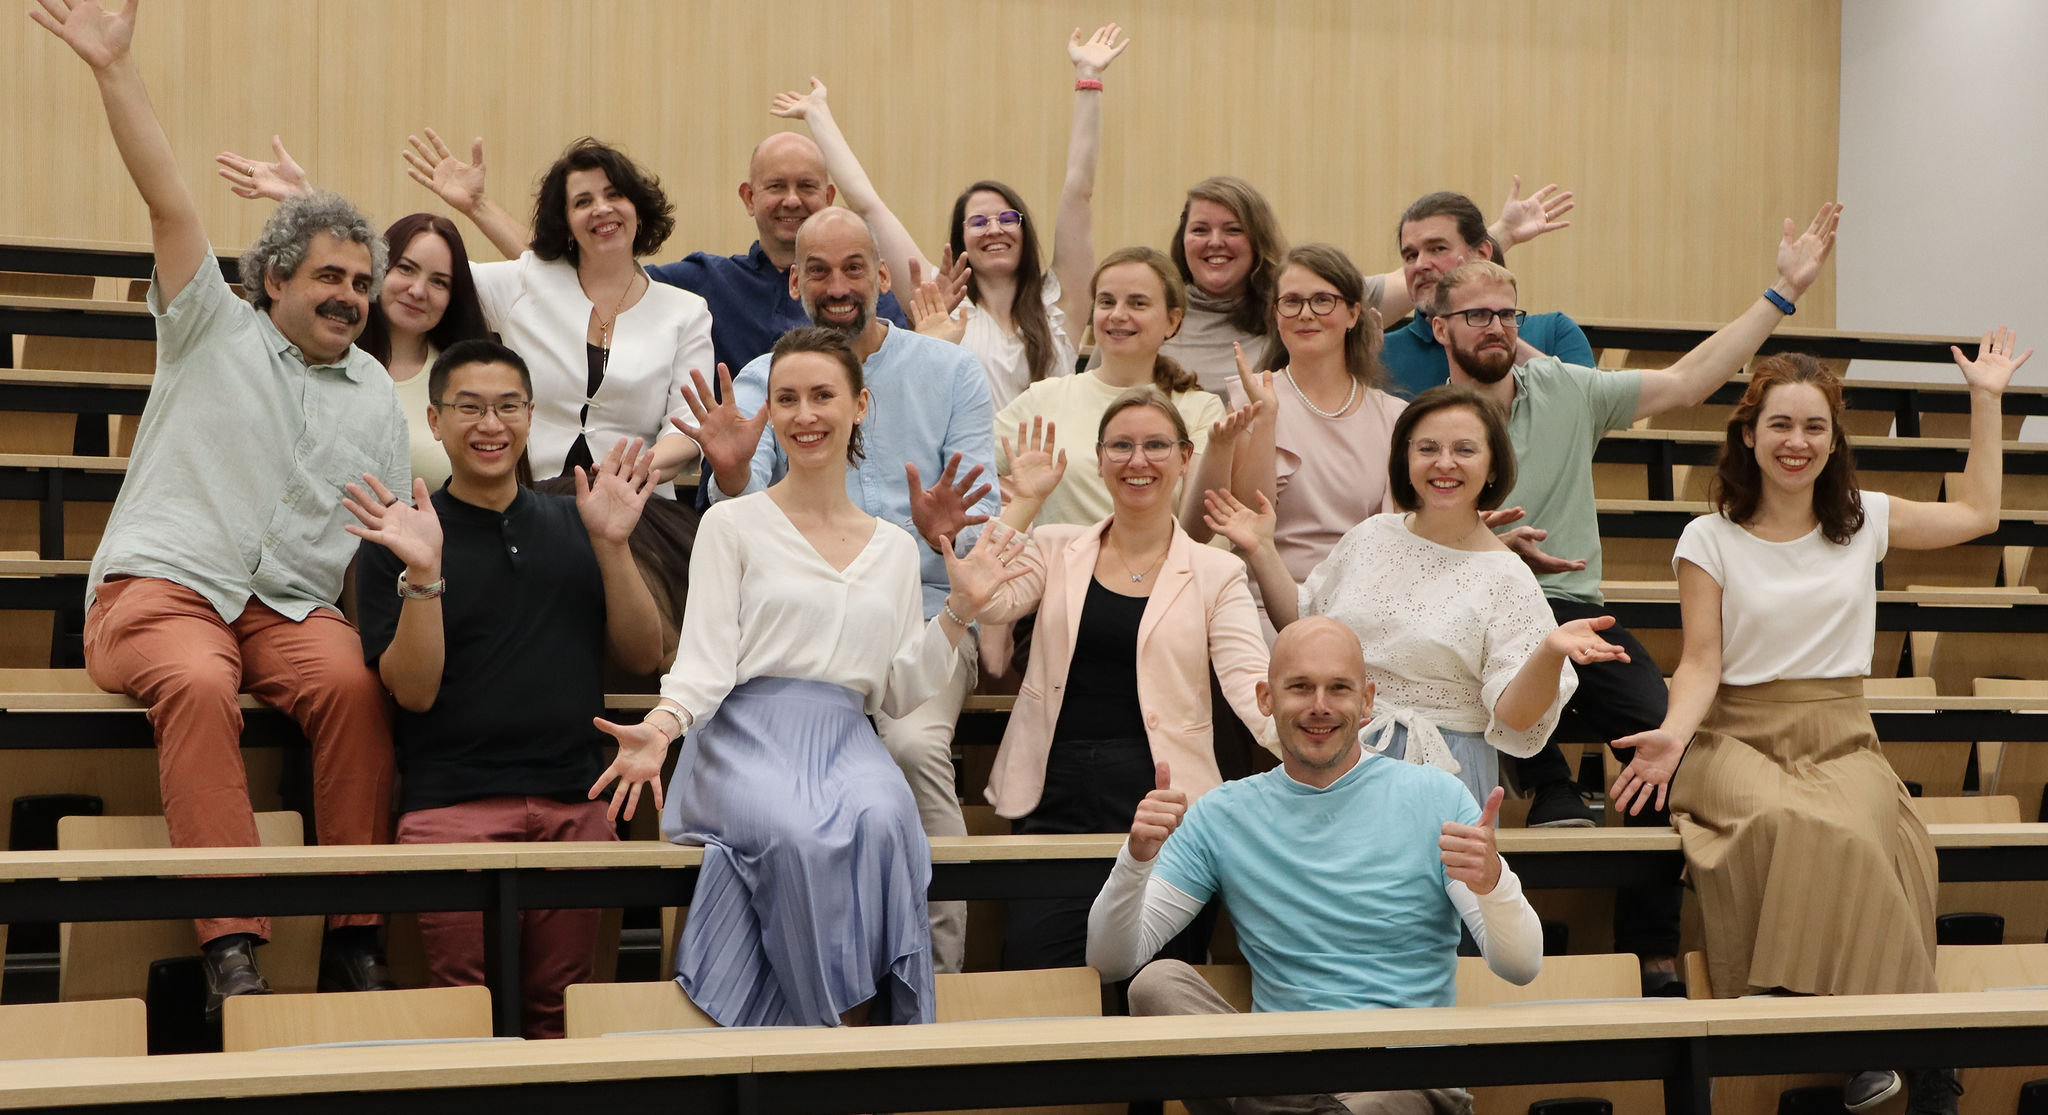
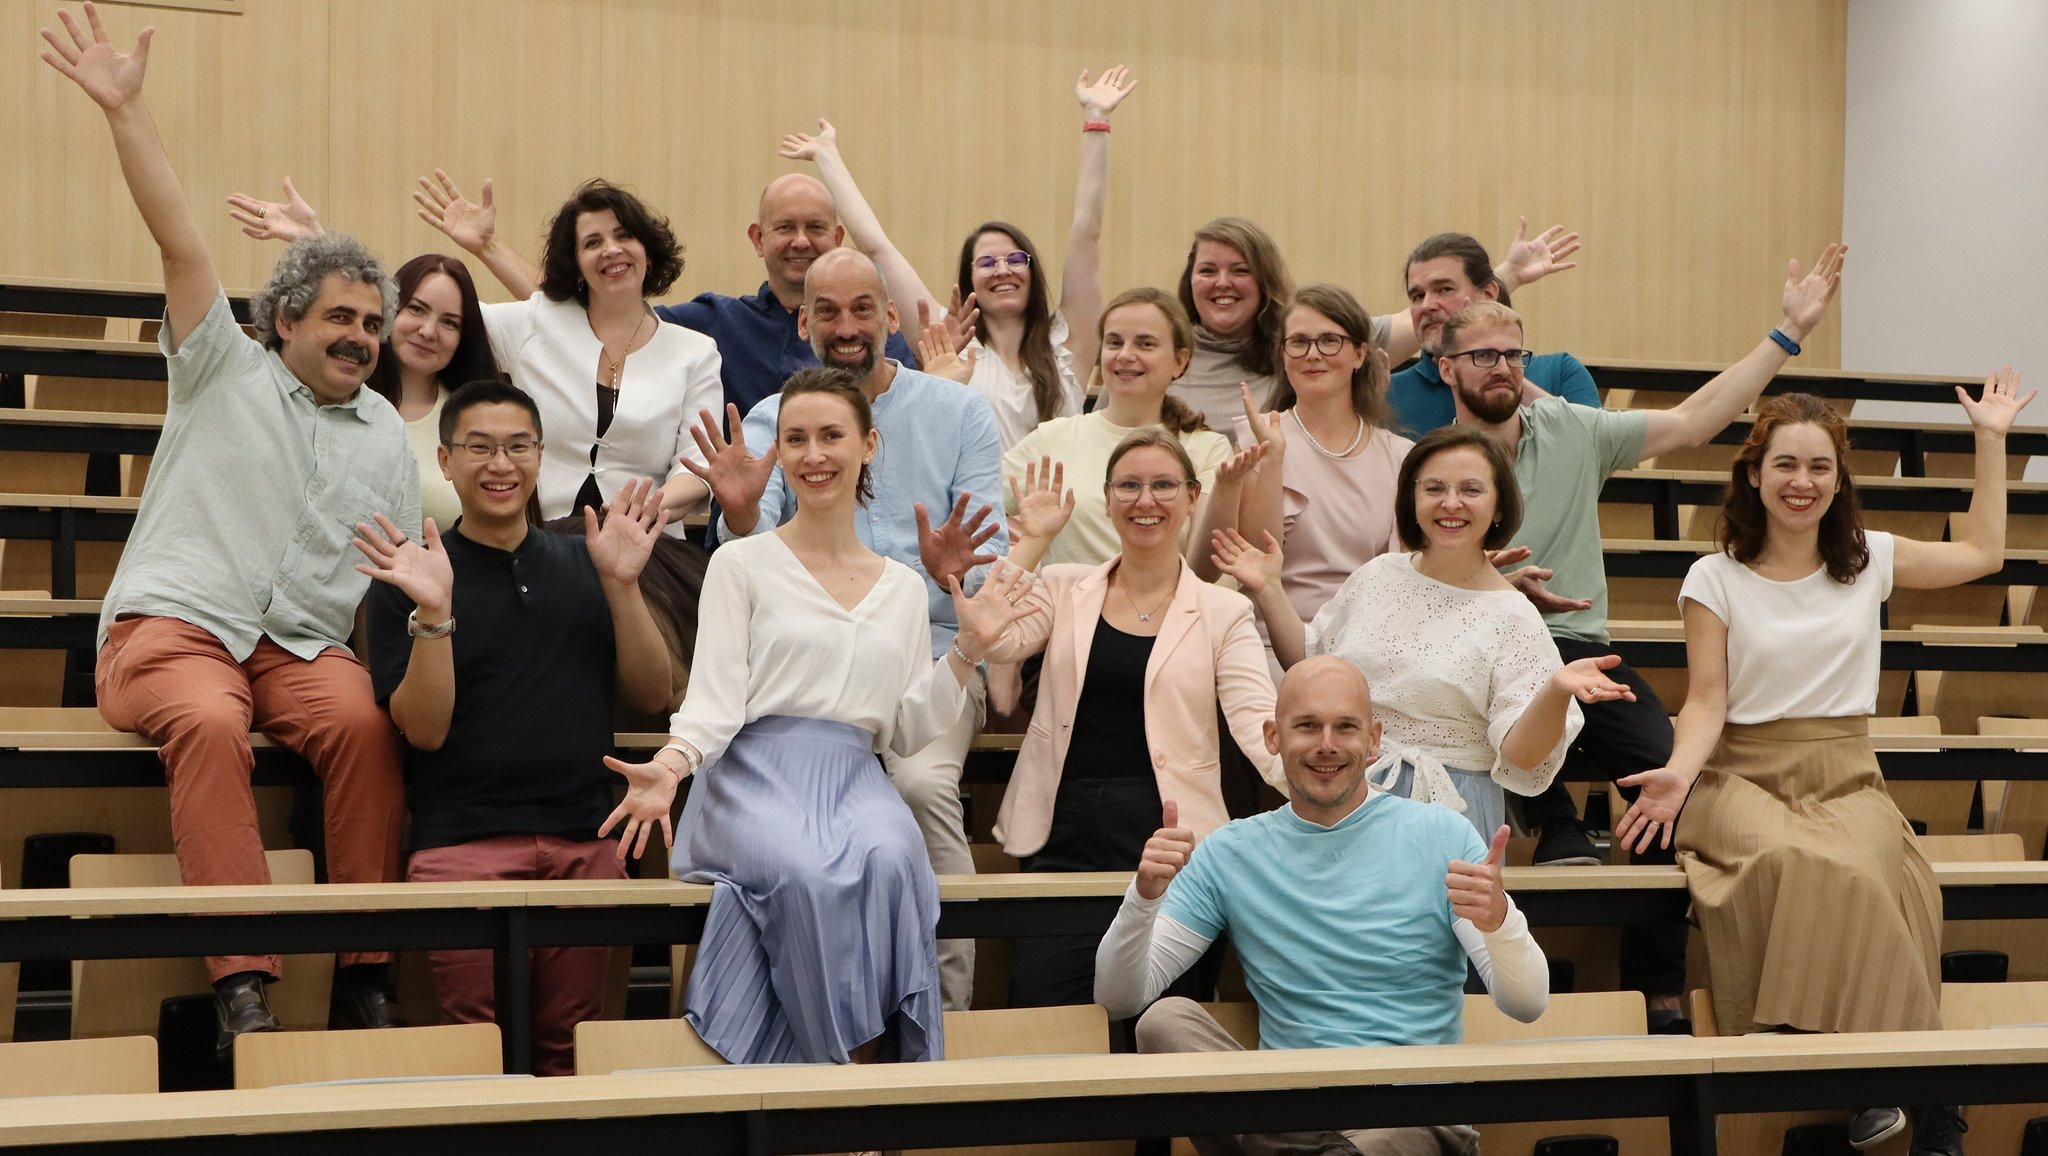
title photos with larger context, fixed gallery CSS, other minor fixes

diff --git a/css/style.css b/css/style.css
@@ -270,7 +270,7 @@ body {
 }
 	#home-row-1,
 	#home-row-2 {
-		padding-top: 0px; /*25px*/
+		padding-top: 25px;
 	}
 	
 	#home-row-1 h1 {
@@ -279,7 +279,7 @@ body {
 	}
 	
 	#home-row-1 h4 {
-		font-size: 30px;
+		font-size: 32px;
 		color: #483527;
 	}
 	
@@ -329,8 +329,6 @@ body {
 	color: #e4e6e5;
 	padding-top: 60px;
 }
-
-
 
 	.title-row {
 		font-size: 45px;
@@ -390,59 +388,45 @@ body {
 	margin: 0 auto;
 	overflow: hidden;
 	padding-top: 50px;
-	text-align: left;
-	/*width: 80%;*/
+	text-align: center;
+	width: 100%;
 }
+
+	#slide-3 .row {
+		width: 100% !important;
+		left: 0 !important;
+		margin: 0;
+	}
 	
 	#slide-3 .col-12 {
 		display: block;
-		height: 200px;
-		width: 200px;
+		width: 10%;
 		margin: 0;
 		padding: 0;
-		/*width: 10%;*/
-		/*height: 25%;*/
 	}
+
 
 	#slide-3 a,
 	#slide-3 img {
 		display: inline-block;
-		height: 100%;
+		max-height: 100%;
 		margin: 0 auto;
-		width: 100%;
+		max-width: 100%;
 	}
 	
-@media (max-width: 991px) {
-	#slide-3 {
-		text-align: center;
-		width: 100%;
-	}
-	
-	#slide-3 .row {
-		left: 0 !important;
-		margin: 0;
-		width: 100% !important;
-	}
-		height: auto;
-	
-	#slide-3 .col-12 {
-		width: 50%
+	@media (max-width: 991px) {
+
+		#slide-3 .col-12 {
+			width: 20%
+		}
+
 	}
 
-	#slide-3 a,
-	#slide-3 img {
-		height: auto;
-		max-height: 100%;
-		max-width: 100%;
-		width: auto;
+	@media (max-width: 767px) {
+		#slide-3 .col-12 {
+			width: 33%;
+		}
 	}
-}
-	
-@media (max-width: 767px) {
-	#slide-3 .col-12 {
-		width: 100%;
-	}
-}
 
 #slide-4 {
 	background-color: #9A8B6B;
@@ -503,7 +487,7 @@ body {
 		text-align: center;
 	}
 	
-	.content-row img {
+	#slide-5 .content-row img {
 	float: left;
 	/*max-width: 40%;*/
 	max-height: 300px;

diff --git a/en/index.html b/en/index.html
@@ -134,8 +134,8 @@
 				<div class="col-sm-1 hidden-sm">&nbsp;</div>
 				<div class="col-12 col-sm-1 font-semibold"></div>
 				<div class="col-12 col-sm-2 font-semibold">30.10. - 1.11.</div>
-				<div class="col-12 col-sm-5 font-semibold">Gloria Festival 2026 – International Choral Competition in Prague</div>
-				<div class="col-12 col-sm-2 font-semibold"></div>
+				<div class="col-12 col-sm-5 font-thin">Gloria Festival 2026 – International Choral Competition in Prague</div>
+				<div class="col-12 col-sm-2 font-thin"></div>
 				<a target="_blank" href="https://www.musicaorbis.com/gloria/2026/"><img src="../images/icons8-link-64.png" alt="link" width=24></a>
 			</div>
 
@@ -364,12 +364,10 @@
 			<!--</div><!-- /row -->
 
 			<div class="row content-row">
-				<div class="col-12 col-sm-5">
-					<img src="../images/foto2026_ruky.jpg">
+				<div class="col-12 col-sm-6" style="padding: 0.5em;">
+					<img src="../images/foto2026_ruky.jpg" class="img-responsive">
 				</div>
-				<div class="col-12 col-sm-2">
-				</div>
-				<div class="col-12 col-sm-5 justify-text">
+				<div class="col-12 col-sm-6 justify-text"  style="padding: 0.5em;">
 					We were formed as a group of friends from university in Bratislava, Slovakia,
 					who share a common passion for music and singing, we started to meet regularly
 					until in 2011 we created the vocal-instrumental group
@@ -383,7 +381,7 @@
 					<br>
 					<br>
 				</div>
-			<div>
+			</div>
 			<div class="row content-row">
 				<div class="col-12 col-lg-3 col-sm-6">
 					<p><i class="fa fa-music fa-large"></i></p>

diff --git a/index.html b/index.html
@@ -132,8 +132,8 @@
 				<div class="col-sm-1 hidden-sm">&nbsp;</div>
 				<div class="col-12 col-sm-1 font-semibold"></div>
 				<div class="col-12 col-sm-2 font-semibold">30.10. - 1.11.</div>
-				<div class="col-12 col-sm-5 font-semibold">Gloria Festival 2026 – Medzinárodná zborová súťaž v Prahe</div>
-				<div class="col-12 col-sm-2 font-semibold"></div>
+				<div class="col-12 col-sm-5 font-thin">Gloria Festival 2026 – Medzinárodná zborová súťaž v Prahe</div>
+				<div class="col-12 col-sm-2 font-thin"></div>
 				<a target="_blank" href="https://www.musicaorbis.com/cs/gloria/2026/"><img src="images/icons8-link-64.png" alt="link" width=24></a>
 			</div>
 
@@ -358,12 +358,10 @@
 			<!--</div><!-- /row -->
 			
 			<div class="row content-row">
-				<div class="col-12 col-sm-5">
-					<img src="images/foto2026_ruky.jpg">
+				<div class="col-12 col-sm-6" style="padding: 0.5em;">
+					<img src="images/foto2026_ruky.jpg" class="img-responsive">
 				</div>
-				<div class="col-12 col-sm-2">
-				</div>
-				<div class="col-12 col-sm-5 justify-text">
+				<div class="col-12 col-sm-6 justify-text"  style="padding: 0.5em;">
 					Vznikli sme ako zoskupenie kamarátov z VŠ v Bratislave,
 					ktorí zdieľajú spoločné nadšenie pre hudbu a spev, začali sme sa pravidelne stretávať
 					až sme v r. 2011 vytvorili vokálno-inštrumentálnu skupinu
